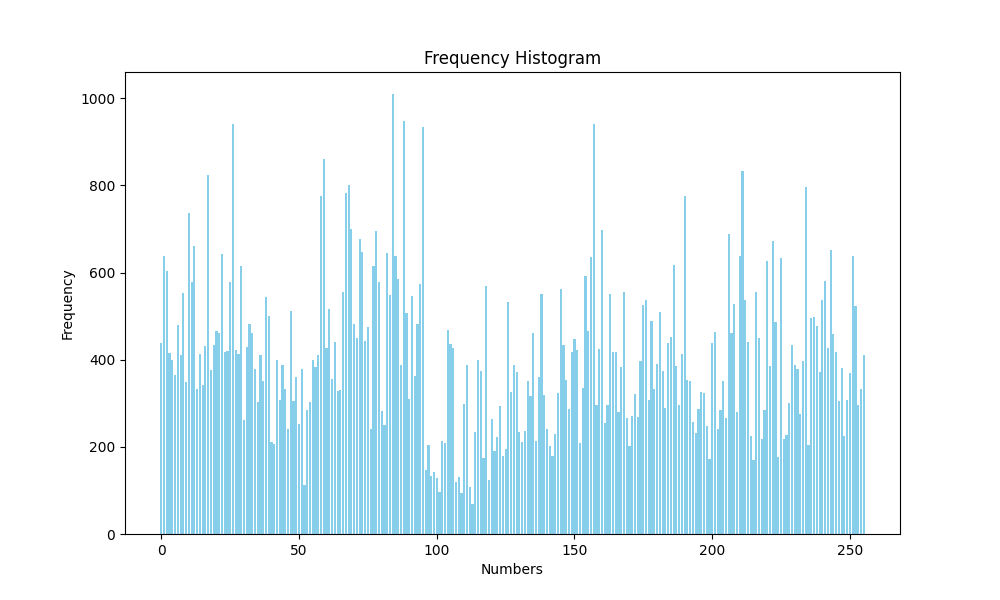
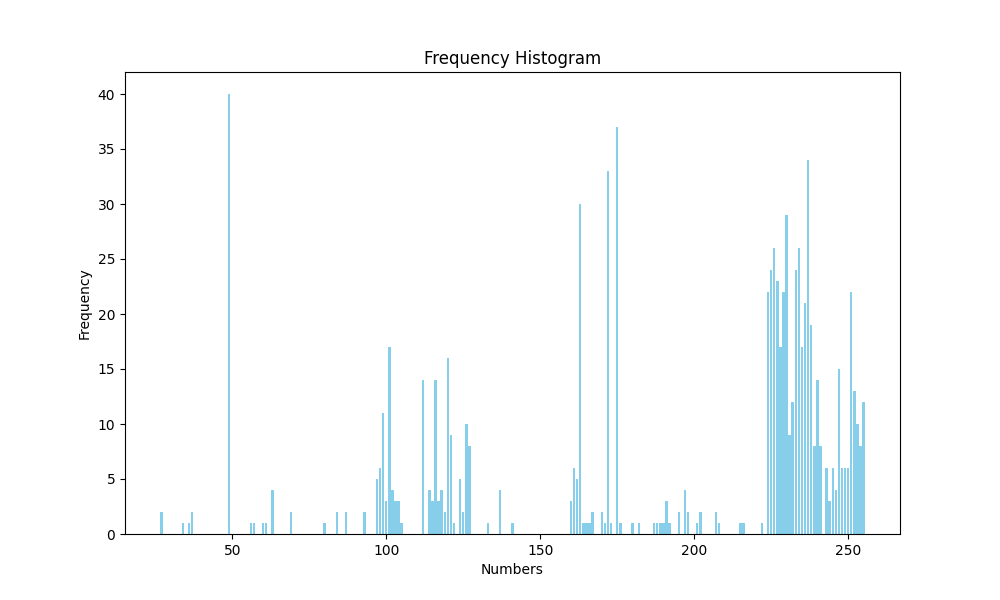
feat: generating round keys

diff --git a/feistelStructure.py b/feistelStructure.py
@@ -8,6 +8,7 @@ import matplotlib.pyplot as plt
 class FeistelStructure:
     """Class implementing a Feistel cipher structure."""
 
+    # TODO: Need to check/fix units of block_size and key_length_bytes
     def __init__(self, block_size, num_rounds, key_length_bytes, r):
         """Initialize the Feistel cipher structure.
 
@@ -20,6 +21,8 @@ class FeistelStructure:
         Returns:
             None
         """
+        if (key_length_bytes*2 != block_size):
+            raise ValueError("Key length should be half the block size")
         self.block_size = block_size
         self.num_rounds = num_rounds
         self.key_length_bytes = key_length_bytes
@@ -88,6 +91,17 @@ class FeistelStructure:
 
         return expanded_keys
 
+    def generate_round_keys(self, master_key):
+        """Generate round keys using logistic chaotic maps."""
+        round_keys = np.array([master_key])
+        for i in range(self.num_rounds):
+            # Use logistic map to generate round key
+            round_key = self.logistic_chaotic_map(round_keys[0]) % 256
+            round_keys = np.concatenate(([round_key], round_keys))
+        round_keys = round_keys[:-1]
+        round_keys = round_keys.astype(int)
+        return round_keys
+
     def feistel_round(self, L, R, round_key):
         """Perform one round of the Feistel cipher.
 
@@ -112,7 +126,7 @@ class FeistelStructure:
         F ^= round_key
         return R, F
 
-    def encrypt_block(self, block, key):
+    def encrypt_block(self, block, round_keys):
         """Encrypt a single block of data.
 
         Args:
@@ -123,7 +137,7 @@ class FeistelStructure:
             numpy.ndarray: The encrypted block.
         """
         L, R = np.split(block, 2)
-        round_keys = [key] * self.num_rounds
+        # round_keys = [key] * self.num_rounds
         for i in range(self.num_rounds):
             L, R = self.feistel_round(L, R, round_keys[i])
         encrypted_block = np.concatenate((R, L))
@@ -140,6 +154,8 @@ class FeistelStructure:
             numpy.ndarray: The encrypted data.
         """
         encrypted_data = []
+        round_keys = self.generate_round_keys(key)
+        round_keys = round_keys[::-1]
         for i in range(0, len(data), self.block_size):
             block = data[i:i+self.block_size]
             if len(block) < self.block_size:
@@ -149,11 +165,11 @@ class FeistelStructure:
                 padding_digits[-1] = diff
                 block = np.concatenate((block, padding_digits))
 
-            encrypted_block = self.encrypt_block(block, key)
+            encrypted_block = self.encrypt_block(block, round_keys)
             encrypted_data.append(encrypted_block)
         return np.concatenate(encrypted_data)
 
-    def decrypt_block(self, block, key):
+    def decrypt_block(self, block, round_keys):
         """Decrypt a single block of data.
 
         Args:
@@ -164,8 +180,8 @@ class FeistelStructure:
             numpy.ndarray: The decrypted block.
         """
         L, R = np.split(block, 2)
-        round_keys = [key] * self.num_rounds
-        round_keys = round_keys[::-1]
+        # round_keys = [key] * self.num_rounds
+        # round_keys = round_keys[::-1]
         for i in range(self.num_rounds):
             L, R = self.feistel_round(L, R, round_keys[i])
         decrypted_block = np.concatenate((R, L))
@@ -181,11 +197,11 @@ class FeistelStructure:
         Returns:
             numpy.ndarray: The decrypted data.
         """
+        round_keys = self.generate_round_keys(key)
         decrypted_data = []
         for i in range(0, len(encrypted_data), self.block_size):
             block = encrypted_data[i:i+self.block_size]
-            print("Block Size: ", len(block))
-            decrypted_block = self.decrypt_block(block, key)
+            decrypted_block = self.decrypt_block(block, round_keys)
             decrypted_data.append(decrypted_block)
         # Remove padding
         padding_size = decrypted_data[-1][-1]

diff --git a/main.py b/main.py
@@ -1,16 +1,16 @@
 from feistelStructure import FeistelStructure
+import numpy as np
 
-
-block_size = 128
+block_size = 4
 num_rounds = 2
-key_length_bytes = 64
+key_length_bytes = 2
 r = 3.9
 
 feistel = FeistelStructure(block_size, num_rounds, key_length_bytes, r)
 
-# feistel.running_time()
+feistel.running_time()
 key = feistel.generate_key()
-print("Key: ", key)
+expanded_key = feistel.generate_round_keys(key)
 
 # feistel.encrypt_file("test files/basic.txt",
 #                      "output files/encrypted files/basic.txt", key)
@@ -18,21 +18,21 @@ print("Key: ", key)
 # feistel.decrypt_file("output files/encrypted files/basic.txt",
 #                      "output files/decrypted files/basic.txt", key)
 
-# input_text = "Read the introduction and conclusion: These sections usually summarize the paper's main argument or thesis."
-# input_data = feistel.string_to_ascii(input_text)
+input_text = "Read the introduction and conclusion: These sections usually summarize the paper's main argument or thesis."
+input_data = feistel.string_to_ascii(input_text)
 
-# encrypted_data = feistel.encrypt_data(input_data, key)
-# encrypted_text = feistel.ascii_to_string(encrypted_data)
-# print("encrypted_text", encrypted_text)
+encrypted_data = feistel.encrypt_data(input_data, key)
+encrypted_text = feistel.ascii_to_string(encrypted_data)
+print("encrypted_text", encrypted_text)
 
-# decrypted_data = feistel.decrypt_data(encrypted_data, key)
-# decrypted_text = feistel.ascii_to_string(decrypted_data)
+decrypted_data = feistel.decrypt_data(encrypted_data, key)
+decrypted_text = feistel.ascii_to_string(decrypted_data)
 
 
 # feistel.frequency_histogram(input_data, "input_histogram.png")
 # feistel.frequency_histogram(encrypted_data, 'encrypted_histogram.png')
 
-# print("Decrypted text: ", decrypted_text)
-# print("Decryption matches input: ", np.array_equal(input_data, decrypted_data))
+print("Decrypted text: ", decrypted_text)
+print("Decryption matches input: ", np.array_equal(input_data, decrypted_data))
 # print("Confusion score: ", feistel.confusion_score(input_block, decrypted_data))
 # print("Diffusion score: ", feistel.diffusion_score(input_block, decrypted_data))
